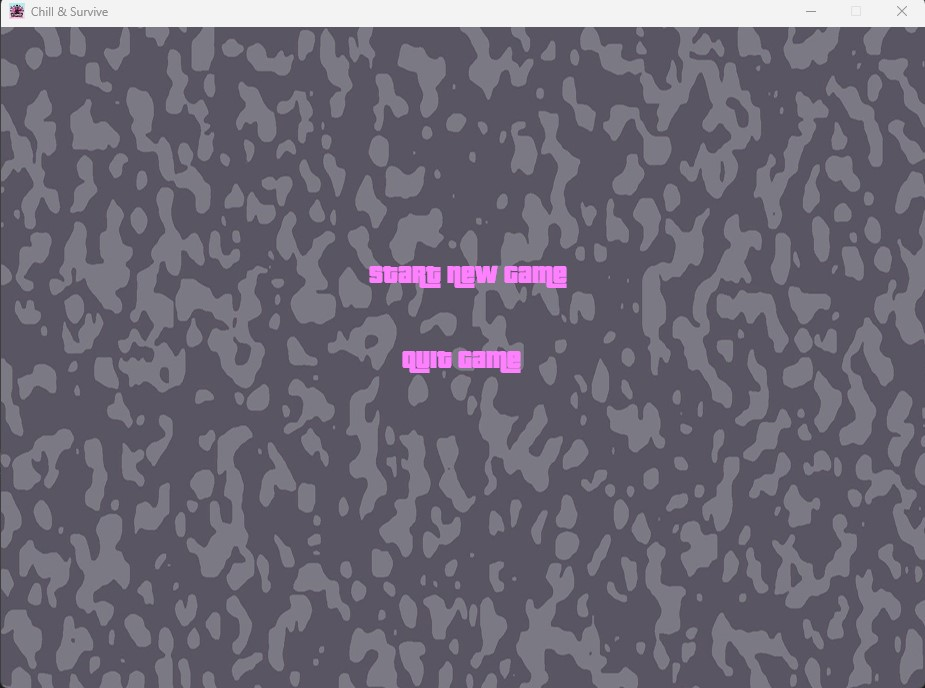
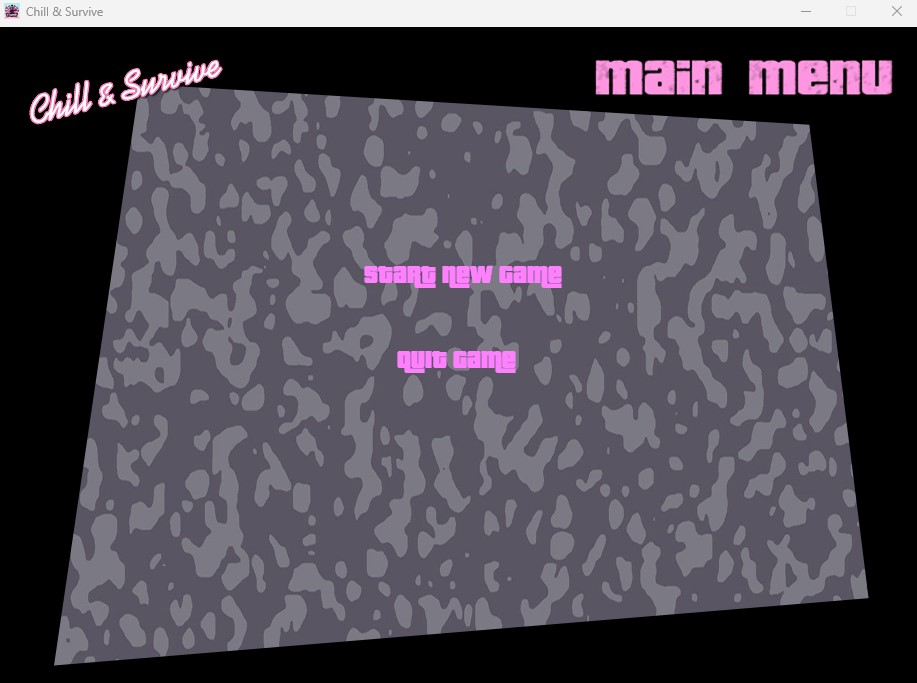
Changed menu backgrounds

diff --git a/App05_RPG_Game/Form1.Designer.cs b/App05_RPG_Game/Form1.Designer.cs
@@ -128,7 +128,7 @@
             // 
             // startMenu
             // 
-            this.startMenu.BackgroundImage = global::App05_RPG_Game.Properties.Resources.MenuBackgroundResized;
+            this.startMenu.BackgroundImage = global::App05_RPG_Game.Properties.Resources.UpdatedStartMenu2;
             this.startMenu.Controls.Add(this.quitButton);
             this.startMenu.Controls.Add(this.startButton);
             this.startMenu.Dock = System.Windows.Forms.DockStyle.Fill;
@@ -180,7 +180,7 @@
             // 
             // PauseMenu
             // 
-            this.PauseMenu.BackgroundImage = global::App05_RPG_Game.Properties.Resources.MenuBackgroundResized;
+            this.PauseMenu.BackgroundImage = global::App05_RPG_Game.Properties.Resources.UpdatedMenu2;
             this.PauseMenu.Controls.Add(this.restartButton);
             this.PauseMenu.Controls.Add(this.QuitGame);
             this.PauseMenu.Controls.Add(this.resumeGame);
@@ -265,7 +265,7 @@
             // 
             // newStartMenu
             // 
-            this.newStartMenu.BackgroundImage = global::App05_RPG_Game.Properties.Resources.MenuBackgroundResized;
+            this.newStartMenu.BackgroundImage = global::App05_RPG_Game.Properties.Resources.UpdatedStartMenu2;
             this.newStartMenu.Controls.Add(this.Quit);
             this.newStartMenu.Controls.Add(this.StartNewGame);
             this.newStartMenu.Dock = System.Windows.Forms.DockStyle.Fill;
@@ -330,7 +330,7 @@
             // 
             // confirmationPanel
             // 
-            this.confirmationPanel.BackgroundImage = global::App05_RPG_Game.Properties.Resources.MenuBackgroundResized;
+            this.confirmationPanel.BackgroundImage = global::App05_RPG_Game.Properties.Resources.UpdatedMenu2;
             this.confirmationPanel.Controls.Add(this.No);
             this.confirmationPanel.Controls.Add(this.Yes);
             this.confirmationPanel.Controls.Add(this.confirmation);

diff --git a/App05_RPG_Game/Form1.cs b/App05_RPG_Game/Form1.cs
@@ -81,6 +81,7 @@ namespace App05_RPG_Game
         {
             startMenuBool = true;
             confirmationPanel.Show();
+            confirmationPanel.BackgroundImage = Properties.Resources.UpdatedStartMenu2;
             confirmationPanel.BringToFront();
             
             SoundPlayer menuclick = new SoundPlayer(Properties.Resources.MenuEnterEdited);
@@ -120,6 +121,7 @@ namespace App05_RPG_Game
             restartBool = true;
             pauseMenuBool = true;
             confirmationPanel.Show();
+            confirmationPanel.BackgroundImage = Properties.Resources.UpdatedMenu2;
             confirmationPanel.BringToFront();
             
             SoundPlayer menuclick = new SoundPlayer(Properties.Resources.MenuEnterEdited);
@@ -135,6 +137,7 @@ namespace App05_RPG_Game
         {
             pauseMenuBool = true;
             confirmationPanel.Show();
+            confirmationPanel.BackgroundImage = Properties.Resources.UpdatedMenu2;
             confirmationPanel.BringToFront();
             
             SoundPlayer menuclick = new SoundPlayer(Properties.Resources.MenuEnterEdited);
@@ -172,6 +175,7 @@ namespace App05_RPG_Game
         {
             newStartMenuBool = true;
             confirmationPanel.Show();
+            confirmationPanel.BackgroundImage = Properties.Resources.UpdatedStartMenu2;
             confirmationPanel.BringToFront();
             
             SoundPlayer menuclick = new SoundPlayer(Properties.Resources.MenuEnterEdited);

diff --git a/App05_RPG_Game/Properties/Resources.Designer.cs b/App05_RPG_Game/Properties/Resources.Designer.cs
@@ -188,6 +188,26 @@ namespace App05_RPG_Game.Properties {
         /// <summary>
         ///   Looks up a localized resource of type System.Drawing.Bitmap.
         /// </summary>
+        internal static System.Drawing.Bitmap UpdatedMenu2 {
+            get {
+                object obj = ResourceManager.GetObject("UpdatedMenu2", resourceCulture);
+                return ((System.Drawing.Bitmap)(obj));
+            }
+        }
+        
+        /// <summary>
+        ///   Looks up a localized resource of type System.Drawing.Bitmap.
+        /// </summary>
+        internal static System.Drawing.Bitmap UpdatedStartMenu2 {
+            get {
+                object obj = ResourceManager.GetObject("UpdatedStartMenu2", resourceCulture);
+                return ((System.Drawing.Bitmap)(obj));
+            }
+        }
+        
+        /// <summary>
+        ///   Looks up a localized resource of type System.Drawing.Bitmap.
+        /// </summary>
         internal static System.Drawing.Bitmap zombieDown {
             get {
                 object obj = ResourceManager.GetObject("zombieDown", resourceCulture);
